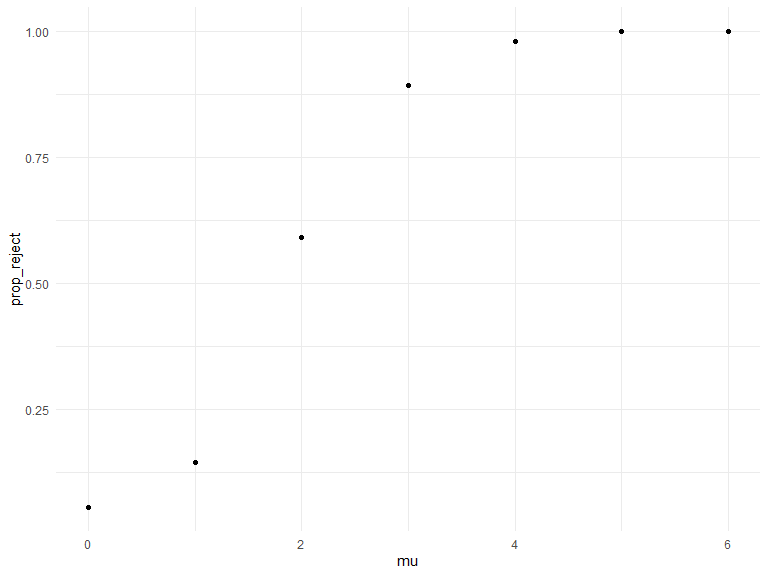
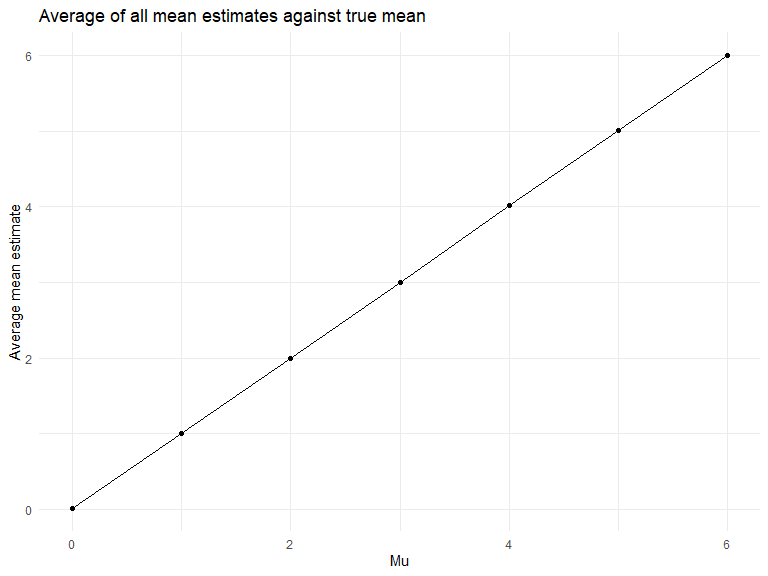
final changes

diff --git a/p8105_hw5_vc2692.md b/p8105_hw5_vc2692.md
@@ -1,5 +1,7 @@
-p8105_hw5_vc2692
+p8105_hw3_vc2692
 ================
+Vaidehi Chudgar
+2025-11-14
 
 ``` r
 library(tidyverse)
@@ -52,9 +54,9 @@ scale_fill_discrete = scale_fill_viridis_d
 
 ## Question 1
 
-birthday problem
+Birthday Problem
 
-putting above into a function
+First I create my function.
 
 ``` r
 bday_sim = function(n_room) {
@@ -67,7 +69,9 @@ bday_sim = function(n_room) {
 }
 ```
 
-want to repeat the function above multiple times
+Next, I run this function 10,000 times for each group size between 2 and
+50. I compute the probability that at least two people in the gruop will
+share a birthday and plot this against group size.
 
 ``` r
 bday_sim_results = 
@@ -98,12 +102,12 @@ bday_sim_results |>
 In the above plot, we see that as the group_size for number of birthdays
 in a room increases, the probability of having at least two people
 sharing a birthday also increases. The graph follows a slight s curve.
-There is an at least 50% probability that at leat two people in a room
+There is an at least 50% probability that at least two people in a room
 share a birthday at a group size of about 23.
 
 ## Question 2
 
-creating function and simulation dataframe for mu = 0
+Creating function and saving mu hat and p value from the t test.
 
 ``` r
 sim_mean = function(mu, n_subj = 30, sigma = 5) {
@@ -125,24 +129,18 @@ sim_mean = function(mu, n_subj = 30, sigma = 5) {
  }
 ```
 
-applying the function to get simulated data, with the repeats for mu =
-0-6
+Applying the function to 5000 iterations for different my values.
 
 ``` r
 sim_results_df = 
   expand_grid (
     mu = 0:6,
-    iter = 1:500
+    iter = 1:5000
     )|> 
   mutate(
     results = map(mu, sim_mean)
   ) |> 
-  unnest(results)
-```
-
-``` r
-sim_results_df = 
-  sim_results_df |>
+  unnest(results) |> 
   group_by(
     mu
   ) |> 
@@ -152,20 +150,36 @@ sim_results_df =
   )
 ```
 
-plot showing the proportion of times the null was rejected (the power of
-the test) on the y axis and the true value of μ on the x axis. Describe
-the association between effect size and power.
+Below is a plot showing the proportion of times the null was rejected
+(the power of the test) on the y axis and the true value of μ on the x
+axis.
 
 ``` r
 sim_results_df |> 
   ggplot(aes(x = mu, y = prop_reject)) +
-  geom_point()
+  geom_point() + 
+  geom_line() +
+  scale_x_continuous(breaks = unique(sim_results_df$mu))+
+  labs(
+    title = "Proportion of times null hypothesis rejected for each mu value",
+    x = "Mu",
+    y = "Proportion of times null hypothesis rejected"
+  )
 ```
 
-<img src="p8105_hw5_vc2692_files/figure-gfm/unnamed-chunk-8-1.png" width="90%" />
+<img src="p8105_hw5_vc2692_files/figure-gfm/unnamed-chunk-7-1.png" width="90%" />
 
-Make a plot showing the average estimate of μ^ on the y axis and the
-true value of μ on the x axis.
+The above plot shows us that it is very difficult to accurately reject
+the null hypothesis correctly when mu is low because the effect size is
+small. When the effect size is small there is low power. However, as mu
+increase out effect size increases, the effect size gets larger because
+most mean estimates are much farther from 0 since they are coming from
+target populations of 3, 4, 5, 6. For t tests where mu is these larger
+values, we have more power because it is easier to detect a difference
+from the null of mu = 0.
+
+Below, I make a plot showing the average estimate of μ^ on the y axis
+and the true value of μ on the x axis.
 
 ``` r
 sim_results_df |> 
@@ -175,14 +189,16 @@ sim_results_df |>
   ggplot(aes(x = mu, y = avg_mu_hat)) +
   geom_point() +
   geom_line() +
-  labs(title = "Avg of all mu hat estimates against true mu" ) 
+  labs(title = "Average of all mean estimates against true mean",
+       x = "Mu",
+       y = "Average mean estimate") 
 ```
 
-<img src="p8105_hw5_vc2692_files/figure-gfm/unnamed-chunk-9-1.png" width="90%" />
+<img src="p8105_hw5_vc2692_files/figure-gfm/unnamed-chunk-8-1.png" width="90%" />
 
-Make a second plot (or overlay on the first) the average estimate of μ^
-only in samples for which the null was rejected on the y axis and the
-true value of μ on the x axis.
+Here is a plot of the average estimate of mu hat only in samples for
+which the null was rejected on the y axis and the true value of μ on the
+x axis.
 
 ``` r
 sim_results_df |> 
@@ -195,17 +211,16 @@ sim_results_df |>
   ggplot(aes(x = mu, y = avg_mu_hat)) +
   geom_point() +
   geom_line() +
-  labs(title = "Avg of statistically significant mu hat estimates against true mu" )
+  labs(title = "Average of statistically significant mean estimates against true mean",
+       x = "Mu",
+       y = "Average mean estimates where null hypothesis rejected")
 ```
 
-<img src="p8105_hw5_vc2692_files/figure-gfm/unnamed-chunk-10-1.png" width="90%" />
-
-Is the sample average of μ^ across tests for which the null is rejected
-approximately equal to the true value of μ? Why or why not?
+<img src="p8105_hw5_vc2692_files/figure-gfm/unnamed-chunk-9-1.png" width="90%" />
 
 The sample average of mu hat only for tests where the null is rejected
-shows us the avg of sample means that significantly different from the
-mu of the target population it was sampled from. For the lower mu
+shows us the avg of sample means that are significantly different from
+the mu of the target population it was sampled from. For the lower mu
 values, the sample means that are rejected are greater than their true
 target mu which allows us to ascertain that the sample mu is different
 from the target mu. However, as the mu of the target population
@@ -215,6 +230,8 @@ able to accurately reject those given increased effect size which leads
 to increased power.
 
 ## Question 3
+
+Below I read in the homicides dataset.
 
 ``` r
 homicide_df =
@@ -231,8 +248,12 @@ homicide_df =
     ## ℹ Use `spec()` to retrieve the full column specification for this data.
     ## ℹ Specify the column types or set `show_col_types = FALSE` to quiet this message.
 
+The raw data includes information on the homicide victim, such as the
+victim’s name, race, age, sex. It also includes the geographic location
+(longitude and latitude) of the homicide, and the outcome of the
+case.There are 52179 individuals included and 12 variables included.
+
 ``` r
-summary_homocides_df = 
  homicide_df |> 
   unite(city_state, city, state, sep = ", "  ) |> 
   filter(
@@ -246,6 +267,142 @@ summary_homocides_df =
   kable()
 ```
 
-The raw data includes information on the homocide victim, such as the
-victom’s name, race, age, sex. It also includes the geographic location
-(longitude and latitude) of the homicide, and the outcome of the case.
+| city_state         | total_homicides | unsolved_homicides |
+|:-------------------|----------------:|-------------------:|
+| Albuquerque, NM    |             378 |                146 |
+| Atlanta, GA        |             973 |                373 |
+| Baltimore, MD      |            2827 |               1825 |
+| Baton Rouge, LA    |             424 |                196 |
+| Birmingham, AL     |             800 |                347 |
+| Boston, MA         |             614 |                310 |
+| Buffalo, NY        |             521 |                319 |
+| Charlotte, NC      |             687 |                206 |
+| Chicago, IL        |            5535 |               4073 |
+| Cincinnati, OH     |             694 |                309 |
+| Columbus, OH       |            1084 |                575 |
+| Dallas, TX         |            1567 |                754 |
+| Denver, CO         |             312 |                169 |
+| Detroit, MI        |            2519 |               1482 |
+| Durham, NC         |             276 |                101 |
+| Fort Worth, TX     |             549 |                255 |
+| Fresno, CA         |             487 |                169 |
+| Houston, TX        |            2942 |               1493 |
+| Indianapolis, IN   |            1322 |                594 |
+| Jacksonville, FL   |            1168 |                597 |
+| Kansas City, MO    |            1190 |                486 |
+| Las Vegas, NV      |            1381 |                572 |
+| Long Beach, CA     |             378 |                156 |
+| Los Angeles, CA    |            2257 |               1106 |
+| Louisville, KY     |             576 |                261 |
+| Memphis, TN        |            1514 |                483 |
+| Miami, FL          |             744 |                450 |
+| Milwaukee, wI      |            1115 |                403 |
+| Minneapolis, MN    |             366 |                187 |
+| Nashville, TN      |             767 |                278 |
+| New Orleans, LA    |            1434 |                930 |
+| New York, NY       |             627 |                243 |
+| Oakland, CA        |             947 |                508 |
+| Oklahoma City, OK  |             672 |                326 |
+| Omaha, NE          |             409 |                169 |
+| Philadelphia, PA   |            3037 |               1360 |
+| Phoenix, AZ        |             914 |                504 |
+| Pittsburgh, PA     |             631 |                337 |
+| Richmond, VA       |             429 |                113 |
+| Sacramento, CA     |             376 |                139 |
+| San Antonio, TX    |             833 |                357 |
+| San Bernardino, CA |             275 |                170 |
+| San Diego, CA      |             461 |                175 |
+| San Francisco, CA  |             663 |                336 |
+| Savannah, GA       |             246 |                115 |
+| St. Louis, MO      |            1677 |                905 |
+| Stockton, CA       |             444 |                266 |
+| Tampa, FL          |             208 |                 95 |
+| Tulsa, OK          |             583 |                193 |
+| Washington, DC     |            1345 |                589 |
+
+The above table shows the total number of homicides and number of
+unsolved homicides for each city.
+
+**Prop.test for Baltimore, MD**
+
+``` r
+baltimore_df =
+  homicide_df |> 
+  unite(city_state, city, state, sep = ", "  ) |> 
+  filter(
+    city_state == "Baltimore, MD",
+  ) |> 
+  summarize(
+    total_homicides = sum(disposition %in% c("Closed without arrest", "Open/No arrest", "Closed by arrest")),
+    unsolved_homicides = sum(disposition %in% c("Closed without arrest", "Open/No arrest"))
+  )
+```
+
+``` r
+baltimore_prop_test =  
+  prop.test(
+    x = baltimore_df |> pull(unsolved_homicides),
+    n = baltimore_df |> pull(total_homicides)
+    ) |> 
+  broom::tidy() |> 
+  select(
+    proportion_unsolved = estimate,
+    ci_lower_limit = conf.low,
+    ci_upper_limit = conf.high
+  )
+```
+
+**Prop.test for all cities in dataset**
+
+``` r
+run_prop_test = function(unsolved, total) {
+  prop.test(x = unsolved, n = total) |>
+    broom::tidy() |>
+    select(
+      proportion_unsolved = estimate,
+      ci_lower_limit      = conf.low,
+      ci_upper_limit      = conf.high
+    )
+}
+
+prop_test_df =
+  homicide_df |> 
+  unite(city_state, city, state, sep = ", ") |> 
+  filter(city_state != "Tulsa, AL") |> 
+  group_by(city_state) |> 
+  summarize(
+    total_homicides = sum(disposition %in% c("Closed without arrest", "Open/No arrest", "Closed by arrest")),
+    unsolved_homicides = sum(disposition %in% c("Closed without arrest", "Open/No arrest"))
+  ) |> 
+  mutate(
+    output = map2(
+      unsolved_homicides,
+      total_homicides,
+      run_prop_test
+    )
+  ) |> 
+  unnest(output) |> 
+  select(city_state, proportion_unsolved, ci_lower_limit, ci_upper_limit)
+```
+
+Below, I create a plot that shows the estimates and CIs for each city.
+
+``` r
+prop_test_df |> 
+  ggplot(aes(
+    x = proportion_unsolved, 
+    y = reorder(city_state, proportion_unsolved)
+  )) +
+  geom_point() +
+  geom_errorbar(aes(
+    xmin = ci_lower_limit,
+    xmax = ci_upper_limit
+  )) +
+  labs(
+    title = "Proportion of homocides unsolved by city",
+    x = "Proportion unsolved (with 95% CI)",
+    y = "City"
+  )
+```
+
+<img src="p8105_hw5_vc2692_files/figure-gfm/unnamed-chunk-15-1.png" width="90%" />
